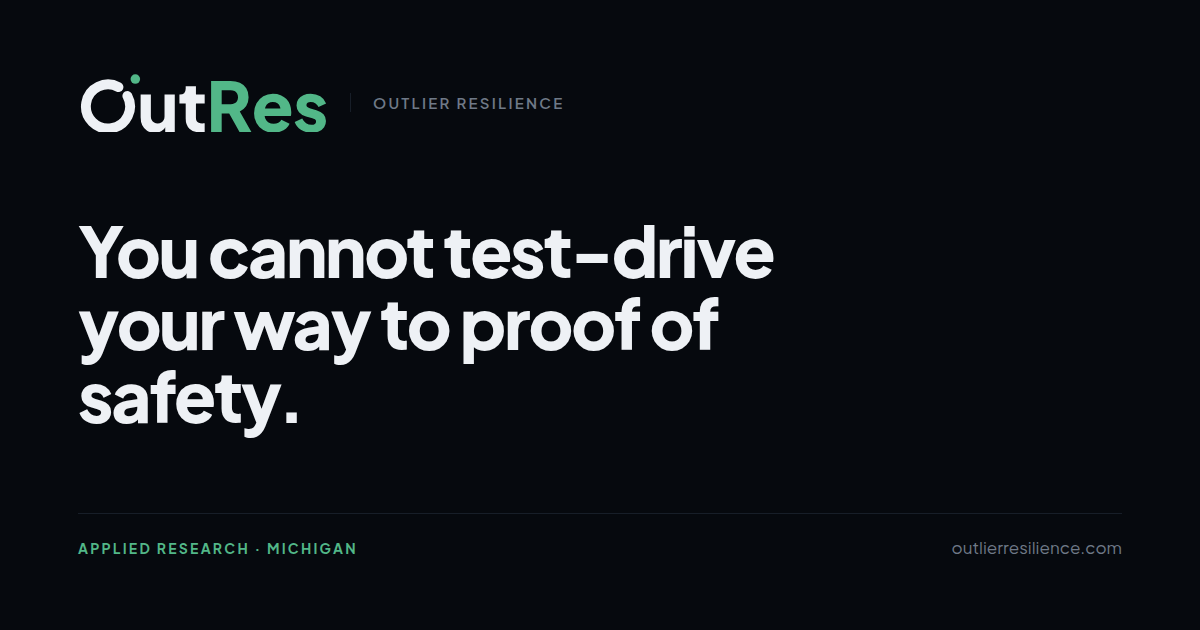
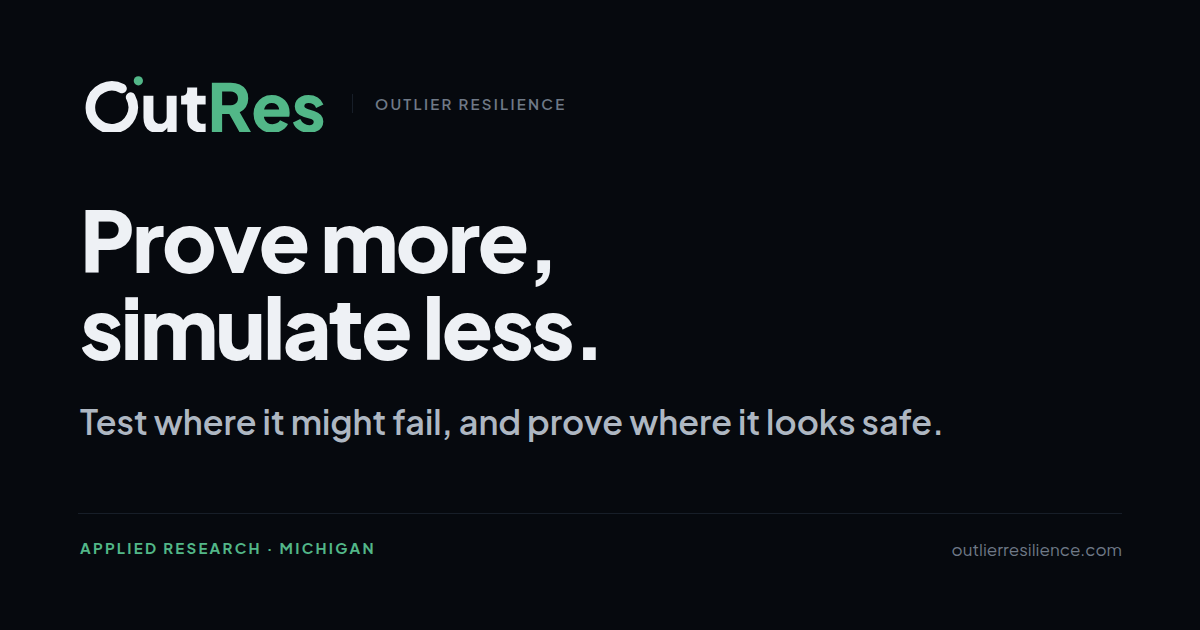
Prove more, simulate less: new copy, 2026 citations, social image

diff --git a/index.html b/index.html
@@ -3,8 +3,8 @@
 <head>
 <meta charset="UTF-8">
 <meta name="viewport" content="width=device-width, initial-scale=1">
-<title>OutRes: Test driving cannot prove safety</title>
-<meta name="description" content="A test campaign visits finitely many conditions, and the road presents uncountably many.">
+<title>OutRes: Prove more, simulate less</title>
+<meta name="description" content="Test where it might fail, and prove where it looks safe. Formal verification for automated driving.">
 <link rel="canonical" href="https://outlierresilience.com/">
 
 <link rel="icon" href="assets/favicon.svg" type="image/svg+xml">
@@ -13,8 +13,8 @@
 <meta property="og:type" content="website">
 <meta property="og:url" content="https://outlierresilience.com/">
 <meta property="og:site_name" content="OutRes">
-<meta property="og:title" content="OutRes: Test driving cannot prove safety">
-<meta property="og:description" content="A test campaign visits finitely many conditions, and the road presents uncountably many.">
+<meta property="og:title" content="OutRes: Prove more, simulate less">
+<meta property="og:description" content="Test where it might fail, and prove where it looks safe. Formal verification for automated driving.">
 <meta property="og:image" content="https://outlierresilience.com/assets/og.png">
 <meta property="og:image:width" content="1200">
 <meta property="og:image:height" content="630">
@@ -82,7 +82,8 @@ h1 {
 
 /* the one page. Two sizes only: the headline, and everything else. */
 h1 { max-width: none; font-size: clamp(1.75rem, 4.4vw, 2.7rem); }
-.hero .lede { font-size: 1.05rem; line-height: 1.6; color: var(--ink); max-width: 62ch; }
+.hero .lede { font-size: 1.05rem; line-height: 1.6; color: var(--ink); max-width: 62ch; font-weight: 600; }
+.hero .lede + p { font-size: 1.05rem; }
 .hero figure { margin: 34px 0 0; max-width: 100%; }
 .hero figure img { display: block; width: 100%; height: auto; border-radius: 4px; border: 1px solid var(--line); }
 .hero figcaption { margin-top: 10px; font-size: .84rem; color: var(--ink-3); max-width: none; }
@@ -114,10 +115,14 @@ footer a { color: var(--ink-3); border: 0; }
 
 <main>
   <div class="hero wrap">
-    <h1>Test driving cannot prove safety.</h1>
+    <h1>Prove more, simulate less.</h1>
 
-    <p class="lede">A test campaign visits finitely many conditions, and the road
-    presents uncountably many.</p>
+    <p class="lede">Test where it might fail, and prove where it looks safe.</p>
+
+    <p>Engineers know where a driving model is likely to fail, and they test there.
+    What testing cannot show is that everywhere else is safe: every test is one point,
+    and the road presents uncountably many. Formal verification proves it, so
+    simulation goes only where it is needed.</p>
 
     <figure>
       <img src="assets/tested-vs-untested.png" width="956" height="410"
@@ -127,17 +132,20 @@ footer a { color: var(--ink-3); border: 0; }
       right, where the model actually fails.</figcaption>
     </figure>
 
-    <p class="fact">Proving one vehicle beats a human driver would take
-    275&nbsp;million failure-free miles.
-    <cite><a href="https://www.rand.org/pubs/research_reports/RR1478.html">Kalra
-    &amp; Paddock, RAND, 2016</a></cite></p>
+    <p class="fact">In 2026 a robotaxi was recalled because it may not detect heavy
+    smoke, and a federal investigation of reduced-visibility crashes was upgraded to an
+    engineering analysis. Visibility is a range, and testing covers it only at points.
+    <cite><a href="https://static.nhtsa.gov/odi/rcl/2026/RCLRPT-26E044-2993.pdf">NHTSA
+    recall 26E-044</a> &nbsp;&middot;&nbsp;
+    <a href="https://static.nhtsa.gov/odi/inv/2026/INOA-EA26002-10023.pdf">NHTSA
+    EA26002</a></cite></p>
 
     <p class="fact">Formal verification reads the weights and proves what a
     steering model will do in conditions it never drove.
     <cite><a href="https://arxiv.org/abs/2609.10951">White paper: testing between
     the test cases</a></cite></p>
 
-    <p><a class="btn" href="mailto:outlierresilience@gmail.com">outlierresilience@gmail.com</a></p>
+    <p><a class="btn" href="mailto:outlierresilience@gmail.com?subject=The%2060-second%20demo">Ask for the 60-second demo</a></p>
   </div>
 </main>
 

diff --git a/tools/og.html b/tools/og.html
@@ -1,0 +1,37 @@
+<!DOCTYPE html>
+<html lang="en">
+<head>
+<meta charset="UTF-8">
+<title>OutRes social image</title>
+<!-- Source of assets/og.png. Screenshot at 1200x630:
+     python3 -m http.server 8000, then capture http://localhost:8000/tools/og.html -->
+<style>
+@font-face {
+  font-family: 'Plus Jakarta Sans';
+  src: url('../assets/plus-jakarta-sans-latin.woff2') format('woff2');
+  font-weight: 200 800;
+}
+html, body { margin: 0; width: 1200px; height: 630px; background: #06090e; overflow: hidden; }
+body { font-family: 'Plus Jakarta Sans', sans-serif; color: #eef1f5; position: relative; }
+.lockup { position: absolute; left: 80px; top: 74px; display: flex; align-items: center; gap: 24px; }
+.lockup img { width: 248px; height: 58px; display: block; }
+.lockup span { font-size: 15px; font-weight: 600; letter-spacing: .15em; text-transform: uppercase;
+  color: #6f7987; border-left: 1px solid #171e28; padding-left: 22px; }
+h1 { position: absolute; left: 80px; top: 196px; margin: 0; font-weight: 800; font-size: 84px;
+  letter-spacing: -.03em; line-height: 1.04; }
+p { position: absolute; left: 80px; top: 400px; margin: 0; font-size: 34px; font-weight: 600; color: #aeb7c2; }
+.rule { position: absolute; left: 78px; right: 78px; top: 513px; border-top: 1px solid #171e28; }
+.foot { position: absolute; left: 80px; right: 78px; top: 538px; display: flex; justify-content: space-between;
+  font-size: 15px; }
+.foot b { color: #52b788; font-weight: 700; letter-spacing: .15em; text-transform: uppercase; }
+.foot span { color: #6f7987; font-size: 17px; }
+</style>
+</head>
+<body>
+<div class="lockup"><img src="../assets/logo-wordmark.svg" alt=""><span>Outlier Resilience</span></div>
+<h1>Prove more,<br>simulate less.</h1>
+<p>Test where it might fail, and prove where it looks safe.</p>
+<div class="rule"></div>
+<div class="foot"><b>Applied research · Michigan</b><span>outlierresilience.com</span></div>
+</body>
+</html>
